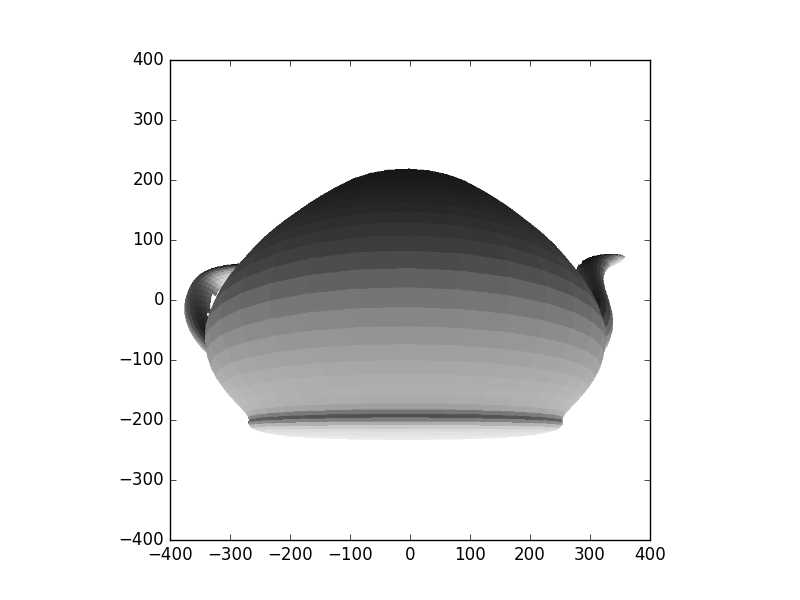
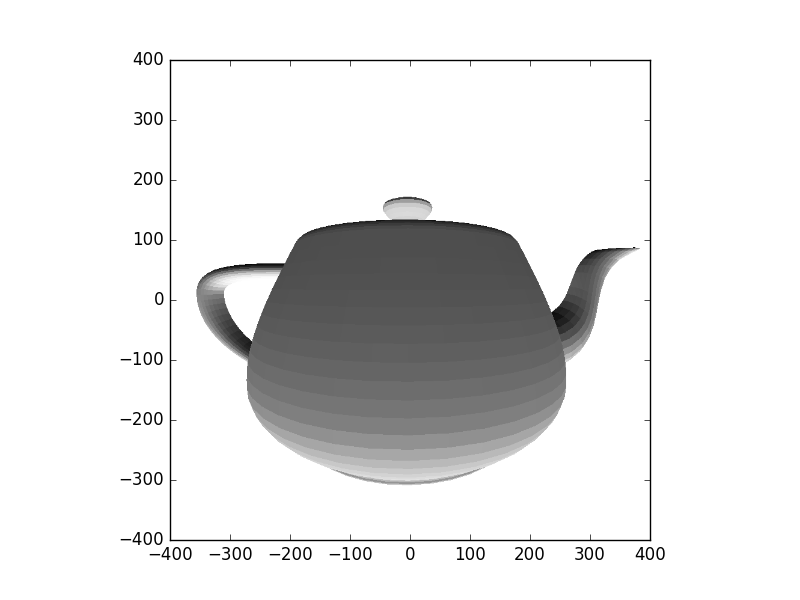
removed dependencies, changed example

Changed region(s): [[0.2188, 0.27, 0.8125, 0.81]]

diff --git a/render.py b/render.py
@@ -4,11 +4,7 @@
 # vertex onto the plane, then display the points (and eventually lines between them)
 
 import numpy as np
-import math
 import matplotlib.pyplot as plt
-from pynput import keyboard
-import time
-import copy
 import stl
 import sys
 
@@ -220,7 +216,7 @@ def render(file):
 
     mean = avg.mean(axis=0)
 
-    r = Renderer(vecs[:,0] * 1.5 * max, mean, np.array([0, 0, 1]), np.pi / 2)
+    r = Renderer(vecs[:,0] * 1.8 * max + np.array([0,0,5]), mean, np.array([0, 0, 1]), np.pi / 2)
 
     for polygon in mesh.vectors:
         r.addTriangle(polygon[0], polygon[1], polygon[2])
